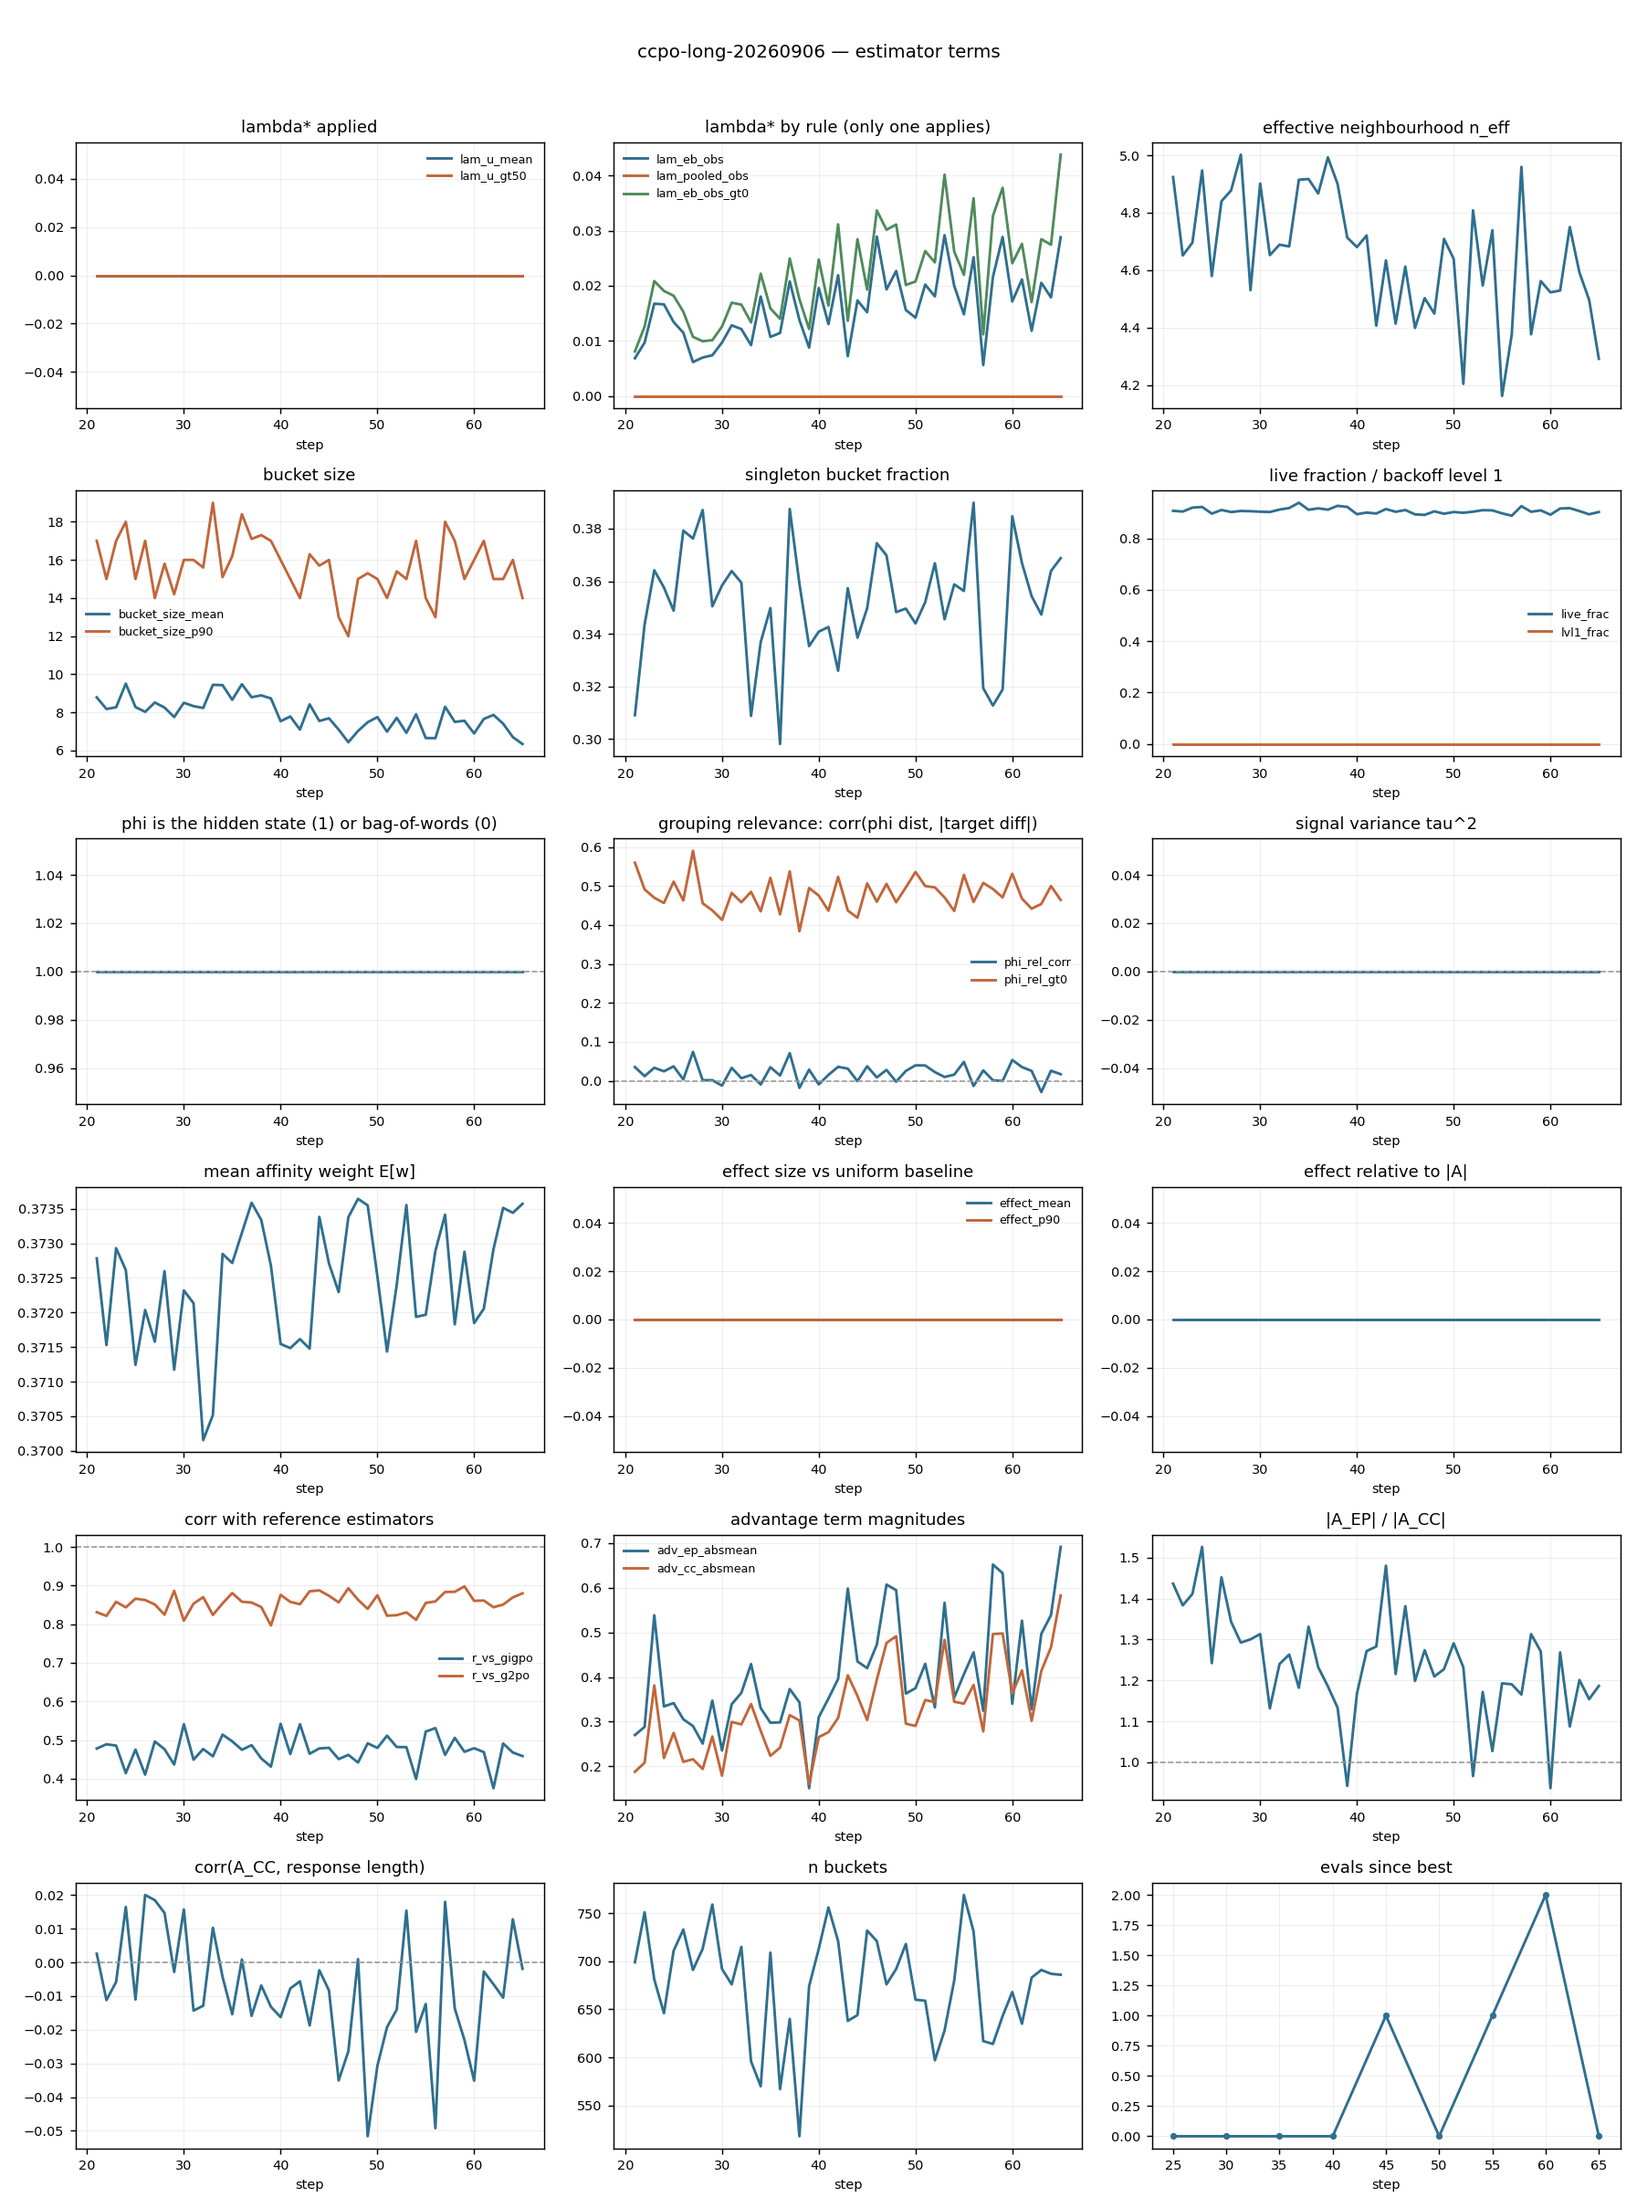
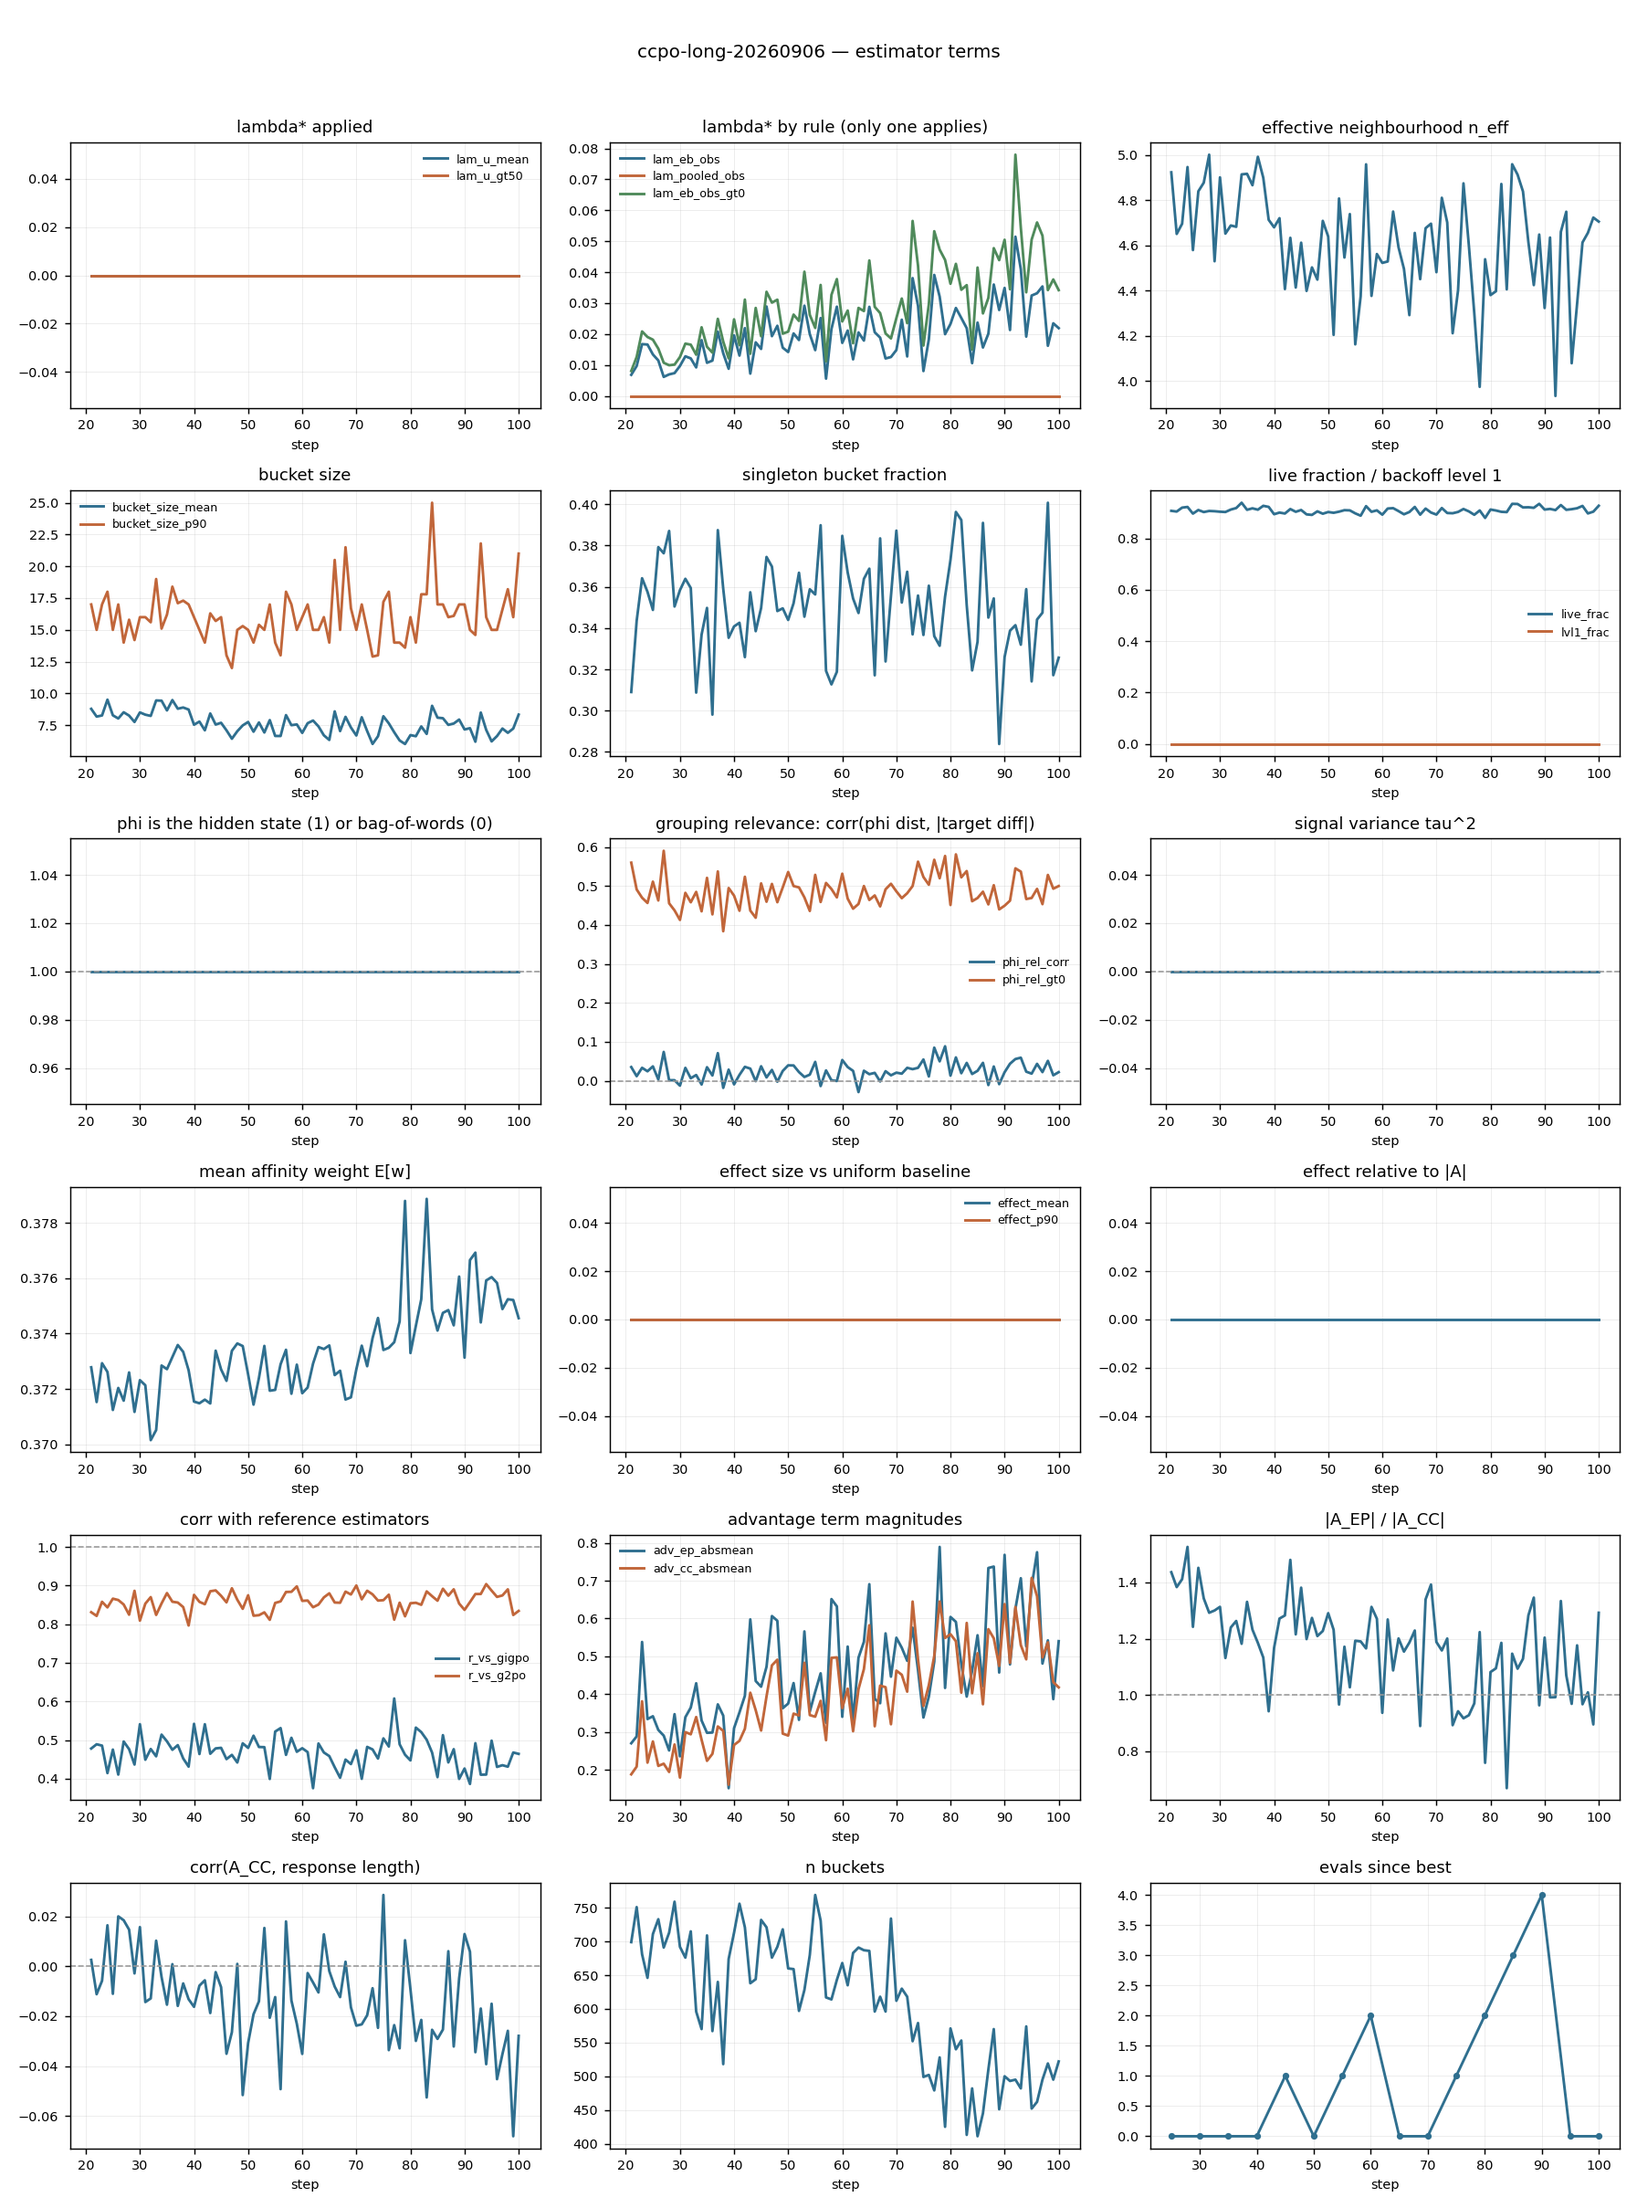
H-I resolved: 70.3% held-out at step 100, and I called the plateau wrong 4 times
Final: 0.7031 at reference length, up from 0.1719 at step 20. Prediction was
0.45-0.70, so the answer landed a hair above the top edge -- conservative, as
flagged at step 40 and deliberately not revised mid-run. Just under published GRPO
(72.8), well short of GiGPO K=2 (90.16). H-F settled: the harness was never broken,
only under-trained.

The curve had NOT saturated: linear fit over the last six evaluations is +0.0196 per
5 steps with r=+0.909.

Records the process failure plainly. I leaned toward a plateau four times (steps 30,
45, 55-60, 85-90) and was wrong every time; at step 90 I asserted convergence at
0.62 and reversed a compute recommendation on it, then the next three evals were the
three highest of the run. The fix is not 'wait longer' -- that was the same error
tightened. At n=128 the SE is ~0.042 and the tail slope is ~0.02 per 5 steps, so the
signal is half the noise and NO reading of this series could support a saturation
call. Future arms: widen the eval to n=512, or read the training-draw trend, which
was climbing 0.63 -> 0.85 through the window I called converged.

Claude-Session: https://claude.ai/code/session_01TnVw4qcXikRNMjxhmmuJXY

diff --git a/experiments/hypothesis.md b/experiments/hypothesis.md
@@ -59,7 +59,7 @@ before the action exists.
 
 ## Open — ranked by expected value
 
-### [~] H-I. Will 100 steps actually close the gap? — prediction on record, 2026-09-06
+### [x] H-I. Will 100 steps actually close the gap? — RESOLVED: yes, mostly — prediction on record, 2026-09-06
 
 Stated **before** `ccpo-long-20260906` reports, so it cannot be rewritten after.
 
@@ -97,10 +97,15 @@ it triggers on *plateau*, not on being behind schedule, so this is a manual call
 
 **Tracking — `ccpo-long-20260906`, held-out (128 fixed episodes):**
 
-| step | 5 | 10 | 15 | 20 | 25 | 30 | 35 | 40 | 45 | 50 | 55 | 60 | 65 |
-|---|---|---|---|---|---|---|---|---|---|---|---|---|---|
-| success | .0625 | .0781 | .1250 | .1719 | .2422 | .2500 | .3047 | .3438 | .2891 | .4219 | .4141 | .4141 | **.5703** |
-| partial | .226 | .386 | .454 | .803 | 1.043 | 1.278 | 1.475 | 1.821 | 1.391 | 2.371 | 2.152 | 2.038 | **3.178** |
+| step | 5 | 10 | 15 | 20 | 25 | 30 | 35 | 40 | 45 | 50 |
+|---|---|---|---|---|---|---|---|---|---|---|
+| success | .0625 | .0781 | .1250 | .1719 | .2422 | .2500 | .3047 | .3438 | .2891 | .4219 |
+| partial | .226 | .386 | .454 | .803 | 1.043 | 1.278 | 1.475 | 1.821 | 1.391 | 2.371 |
+
+| step | 55 | 60 | 65 | 70 | 75 | 80 | 85 | 90 | 95 | **100** |
+|---|---|---|---|---|---|---|---|---|---|---|
+| success | .4141 | .4141 | .5703 | .6406 | .5938 | .6172 | .6406 | .6172 | .6719 | **.7031** |
+| partial | 2.152 | 2.038 | 3.178 | 3.477 | 2.900 | 3.321 | 3.312 | 3.048 | 3.076 | **3.752** |
 
 (Steps 5–20 are `ccpo-mem`; 25+ are the warm-started continuation. Same config, same
 constant LR, so the series is one curve.)
@@ -163,6 +168,57 @@ than a plateau.
 > 2.038) and I weighted that as corroborating evidence because it is the less noisy
 > indicator. It then jumped to 3.178. Being less noisy than a noisy thing does not
 > make it a reliable leading indicator over three points.
+
+---
+
+## RESOLVED at step 100: **0.7031** held-out. Run complete, clean exit, 0 errors.
+
+**The prediction was 0.45–0.70. The answer was 0.7031** — at the top edge, a hair
+outside. The band was slightly conservative, as flagged at step 40, and it was not
+revised mid-run.
+
+| | held-out success |
+|---|---|
+| CCPO @ step 20 (previous arm) | 17.2 |
+| **CCPO @ step 100 (this run)** | **70.3** |
+| GRPO (published) | 72.8 |
+| GiGPO K=2 (published) | 90.16 |
+| HGPO K=2 (published) | 92.77 |
+
+Per-type at step 100 — every type well above zero, including all four
+compositional ones that sat at 0.000 through step 20:
+
+```
+pick_heat_then_place_in_recep   0.792     pick_clean_then_place_in_recep  0.731
+pick_and_place                  0.789     pick_two_obj_and_place          0.600
+pick_cool_then_place_in_recep   0.756     look_at_obj_in_light            0.292
+```
+
+**H-F is settled conclusively: the harness was never broken, only under-trained.**
+5x the training turned 17.2 into 70.3.
+
+**The curve had not saturated at the cutoff.** Linear fit over the last six
+evaluations: **+0.0196 per 5 steps, r = +0.909**. Extending is worth real points.
+
+### What this cost me in credibility, recorded so it is not repeated
+
+I called a plateau or leaned toward one **four times** on this curve — steps 30,
+45, 55–60, and 85–90 — and was wrong every time. The step-90 call was the worst:
+I stated "the curve has converged around 0.62" and *reversed a compute
+recommendation* on it. The next three evaluations were .6172 → .6719 → .7031, the
+three highest of the run.
+
+The mistake was not impatience, and "wait 20 steps instead of 15" was the wrong
+fix — it was a tighter version of the same error. The real problem: **at n=128 the
+binomial SE is ~0.042, and the tail's true slope is ~0.02 per 5 steps.** The signal
+is half the noise. Six consecutive evaluations cannot distinguish a flat curve from
+this one, so *no* reading of this series could have supported a saturation call.
+The instrument could not answer the question I kept asking it.
+
+**Rule for future arms:** never call saturation from the 128-episode series alone.
+Either widen the evaluation (n=512 → SE 0.021) or judge from the training-draw
+trend, which was climbing steadily (0.63 → 0.85) throughout the window I called
+converged and was the correct signal all along.
 
 **One caution against reading the increments too finely:** at p≈0.3 with n=128 the
 binomial SE is 0.040, so any single step-to-step move under ~0.08 is inside noise.
